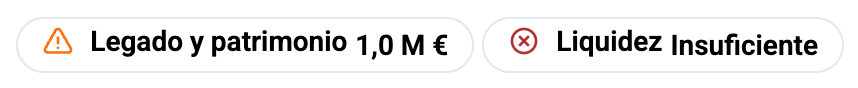
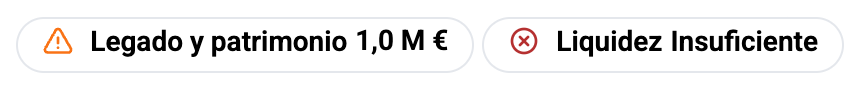
Wealth Planner: even pieces, row opens in place, navy cursor on stages
- Live pieces hide the boards' scrollbars, so padding stays even where classic
  scrollbars are on; Follows the page uses a padded panel piece.
- Pill values aligned to their labels.
- Tables in place plays the row opening (new play mode "click").
- The dot cursor takes a fixed ink on surfaces that set data-cursor-ink; the
  beat stage sets navy.
- Standard: one rule for corners, padding and gaps in case-study visuals.

Changed region(s): [[0.7576, 0.3182, 0.9697, 0.6364], [0.3939, 0.3182, 0.5455, 0.6818], [0.7576, 0.3409, 0.7879, 0.3864]]

diff --git a/src/components/case-study-story.tsx b/src/components/case-study-story.tsx
@@ -1051,6 +1051,8 @@ function BeatRow({
           // One surface: the light product stage, the same in both themes, so a
           // component never sits inside three frames.
           className="flex flex-col justify-center overflow-hidden rounded-md bg-[#eef1f4] text-[#1f2328]"
+          // The stage is light in both themes, so the site's dot cursor stays navy here.
+          data-cursor-ink="#062D3F"
         >
           <div
             ref={visual}
@@ -1365,10 +1367,32 @@ function Composition({
     return () => io.disconnect();
   }, [media.play]);
   const liveCount = media.items.filter((it) => it.src && it.rect).length;
+  // "click": press the element whose own text is `playClick`, as a person would.
+  // A replay reloads the board first, so it starts closed again.
+  const pendingClick = useRef(false);
+  const clickIn = (doc: Document) => {
+    const el = [...doc.querySelectorAll("body *")].find(
+      (e) =>
+        e.children.length === 0 && e.textContent?.trim() === media.playClick
+    );
+    (
+      (el?.closest("tr,button,a,[role=button],li") ?? el) as HTMLElement | null
+    )?.click();
+  };
   const play = () => {
     frames.current.forEach((f) => {
       const doc = f?.contentDocument;
       if (!f || !doc) return;
+      if (media.play === "click") {
+        if (played.current && doc.body.dataset.clicked) {
+          pendingClick.current = true;
+          f.contentWindow?.location.reload();
+        } else {
+          doc.body.dataset.clicked = "1";
+          clickIn(doc);
+        }
+        return;
+      }
       if (media.play === "reload") f.contentWindow?.location.reload();
       else if (media.play === "case")
         (doc.querySelector(".r4-demo__play") as HTMLElement | null)?.click();
@@ -1472,7 +1496,27 @@ function Composition({
                       ref={(el) => {
                         frames.current[k] = el;
                       }}
-                      onLoad={() => setLoaded((n) => n + 1)}
+                      onLoad={(e) => {
+                        // Hide the board's scrollbars. On a system that shows
+                        // classic scrollbars they take ~15 px from the panel and
+                        // shift the measured element off its rect, leaving uneven
+                        // padding and a strip of background at one edge.
+                        const d = e.currentTarget.contentDocument;
+                        if (d?.head) {
+                          const st = d.createElement("style");
+                          st.textContent =
+                            "*{scrollbar-width:none!important}*::-webkit-scrollbar{display:none!important}";
+                          d.head.appendChild(st);
+                        }
+                        if (pendingClick.current && d) {
+                          pendingClick.current = false;
+                          setTimeout(() => {
+                            d.body.dataset.clicked = "1";
+                            clickIn(d);
+                          }, 1400);
+                        }
+                        setLoaded((n) => n + 1);
+                      }}
                       src={it.src}
                       title=""
                       tabIndex={it.interactive ? 0 : -1}

diff --git a/src/lib/content/case-studies.tsx b/src/lib/content/case-studies.tsx
@@ -266,7 +266,9 @@ export type StoryMedia =
        * "case" presses a use case's ▶, "reload" reloads the page. It plays once when the
        * stage is half on screen, and a Replay button plays it again.
        */
-      play?: "lab" | "case" | "reload";
+      play?: "lab" | "case" | "reload" | "click";
+      /** With `play: "click"`: the exact text of the element the board clicks. */
+      playClick?: string;
       /** Every item takes this item's corner radius, as drawn on the stage. */
       radiusFrom?: number;
       legend?: Bilingual<string>[];
@@ -2156,7 +2158,7 @@ export const CASE_STUDIES: Record<string, CaseStudy> = {
                   },
                   {
                     src: "/work/wealth-planner/demo/wp-ingresos.html",
-                    rect: { x: 798, y: 179, w: 598, h: 58 },
+                    rect: { x: 782, y: 163, w: 630, h: 90 },
                     x: 50,
                     y: 68,
                     w: 78,
@@ -2257,14 +2259,16 @@ export const CASE_STUDIES: Record<string, CaseStudy> = {
                   en: "Ingresos as a list you edit in place",
                   es: "Ingresos como una lista que se edita en su sitio",
                 },
+                // Opens the first income in place, as the adviser would.
+                play: "click",
+                playClick: "Nómina Titular",
                 items: [
                   {
-                    src: "/work/wealth-planner/demo/wp-ingresos-edit.html",
-                    rect: { x: 72, y: 64, w: 682, h: 420 },
+                    src: "/work/wealth-planner/demo/wp-ingresos.html",
+                    rect: { x: 72, y: 64, w: 682, h: 540 },
                     x: 50,
                     y: 52,
                     w: 80,
-                    fade: "bottom",
                     radius: 10,
                   },
                 ],

diff --git a/src/components/motion/dot-cursor.tsx b/src/components/motion/dot-cursor.tsx
@@ -128,7 +128,13 @@ export function DotCursor() {
       if (el.style.opacity !== nextOpacity) el.style.opacity = nextOpacity;
 
       const over = hit?.closest("[data-cursor-invert]");
-      const next = over ? "var(--primary-foreground)" : "var(--foreground)";
+      // A surface that keeps one colour in both themes (the light stage of a
+      // case-study visual) names its own ink, since neither token fits it.
+      const fixed = hit
+        ?.closest("[data-cursor-ink]")
+        ?.getAttribute("data-cursor-ink");
+      const next =
+        fixed || (over ? "var(--primary-foreground)" : "var(--foreground)");
       if (next !== ink.current) {
         ink.current = next;
         el.style.backgroundColor = next;
